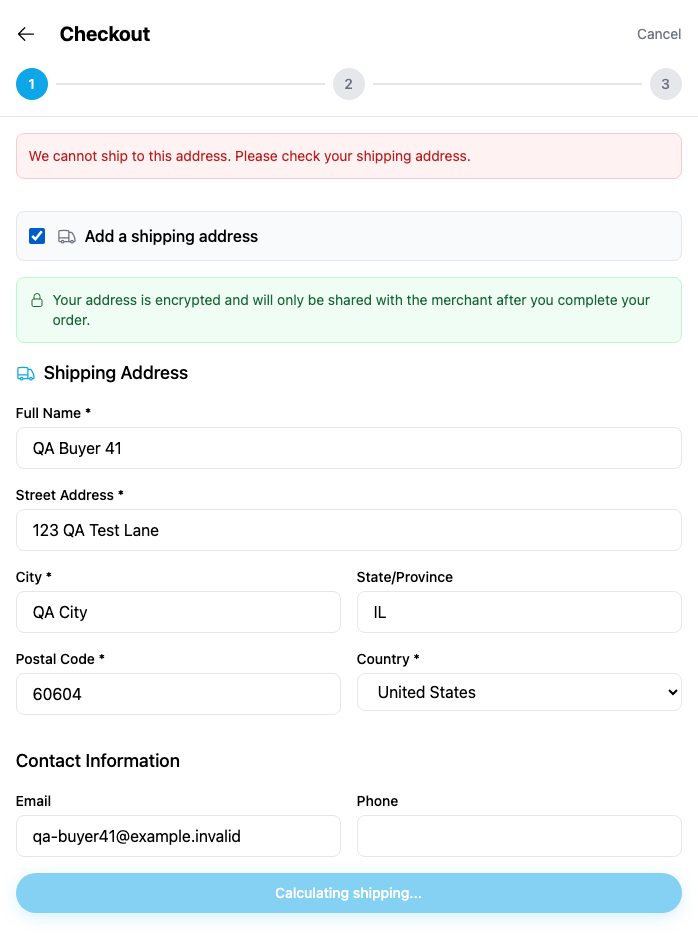
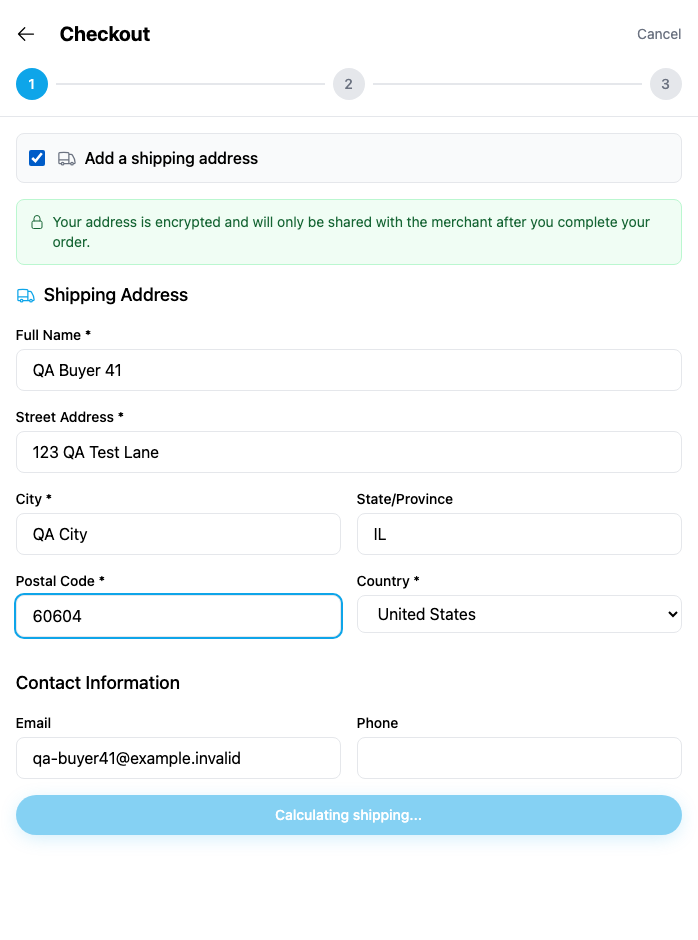
docs: replace shipping evidence with verified final head

diff --git a/yappr/pr-431/README.md b/yappr/pr-431/README.md
@@ -1,10 +1,10 @@
 # Yappr PR431 — wait for shipping calculation
 
-Exact base `4105c5d1c914f5d0838619da93c3b8d28b4a780e`; full head `680eac6869e8069d49a4b79126231fde36d1f32b`. Independently built production devnet exports at localhost:3211 and localhost:4190. Same assigned buyer41, store `98FYBhEF9Q8xNzbamzy66Dm5cMQ5gm9MoAZaiy518sNp`, product `25n2uxxtBSAWVWZBD86uGXdkHW7nYP25jpgfpPY87qRH`, quantity1 and synthetic US address shown. US shipping zone is already configured. Chromium1440×1200, en-US, America/Chicago, light; separate contexts and normal login/encryption-key entry.
+Exact base `4105c5d1c914f5d0838619da93c3b8d28b4a780e`; full head `a24b472ea27e81237775f7752010f0689bc25bb0`. Independently built production devnet exports at localhost:3211 and localhost:4190. Same assigned buyer41, store `98FYBhEF9Q8xNzbamzy66Dm5cMQ5gm9MoAZaiy518sNp`, product `25n2uxxtBSAWVWZBD86uGXdkHW7nYP25jpgfpPY87qRH`, quantity1 and synthetic US address shown. US shipping zone is already configured. Chromium1440×1200, en-US, America/Chicago, light; separate contexts and normal login/encryption-key entry.
 
 Before: change postal code to60604 and promptly click Continue, then Skip on the save-address prompt. The pending lookup is treated as no matching shipping zone, so checkout rejects the accepted address. Identical untouched address succeeds after the request completes.
 
-After: Continue is disabled and reads Calculating shipping... until the lookup finishes, then the same address advances to policies. Stale address calculations are ignored. No network delay was injected and no responses, storage or application DOM were mocked.
+After: Continue is disabled and reads Calculating shipping... until the lookup finishes, then the same address advances to policies. Stale address calculations are ignored, and an old shipping rejection is cleared when the address or shipping selection changes. No network delay was injected and no responses, storage or application DOM were mocked.
 
 | Before — exact base | After — full PR head |
 | --- | --- |
@@ -15,4 +15,8 @@ The same US address advances after calculation:
 
 ![Supported address accepted](after/accepted-us-address.png)
 
-Additional actual UI checks: changing the country to unsupported Canada still rejects after the lookup settles; turning off shipping permits continuation. No order or payment submitted during these checks. Independent review, lint,145 unit tests and production devnet build passed. All5final screenshots were opened at original resolution and inspected. See EVIDENCE_MATRIX.md and SHA256SUMS.
+Additional actual UI checks: changing the country to unsupported Canada still rejects after the lookup settles; changing back to US clears the prior Canada rejection; turning off shipping clears the rejection and permits continuation. No order or payment submitted during these checks. Independent review, lint,145 unit tests and production devnet build passed. All5final screenshots were opened at original resolution and inspected. See EVIDENCE_MATRIX.md and SHA256SUMS.
+
+## Superseded capture
+
+This final-head comparison replaces the initial PR431 artifact at `cf2480fbfae4e36ab5dfd2bcf7c95357c320c89f`. Those after images predated the final stale-error fix, and the focused after frame retained a previous unsupported-Canada rejection from the compatibility check. Every after image above was recaptured from full final head `a24b472ea27e81237775f7752010f0689bc25bb0` in a fresh browser context and inspected; use this revision as the authoritative comparison.

diff --git a/yappr/pr-431/EVIDENCE_MATRIX.md b/yappr/pr-431/EVIDENCE_MATRIX.md
@@ -1,7 +1,7 @@
 # Shipping lookup validation comparison
 
 Base4105c5d1c914f5d0838619da93c3b8d28b4a780e, production devnet export localhost:3211.
-Head680eac6869e8069d49a4b79126231fde36d1f32b, independently built production devnet export localhost:4190.
+Heada24b472ea27e81237775f7752010f0689bc25bb0, independently built production devnet export localhost:4190.
 Same assigned buyer41, store98FYBhEF9Q8xNzbamzy66Dm5cMQ5gm9MoAZaiy518sNp, product25n2uxxtBSAWVWZBD86uGXdkHW7nYP25jpgfpPY87qRH qty1, same synthetic US address postal60604. Existing real shipping zone coversUS. Separate contexts, normal supported login; no storage/SDK/response mocking. Chromium1440×1200,en-US,America/Chicago,light.
 
 | State | Before | After | Expected delta |
